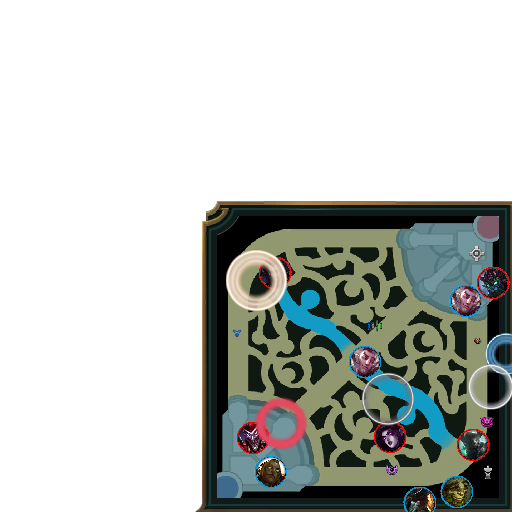
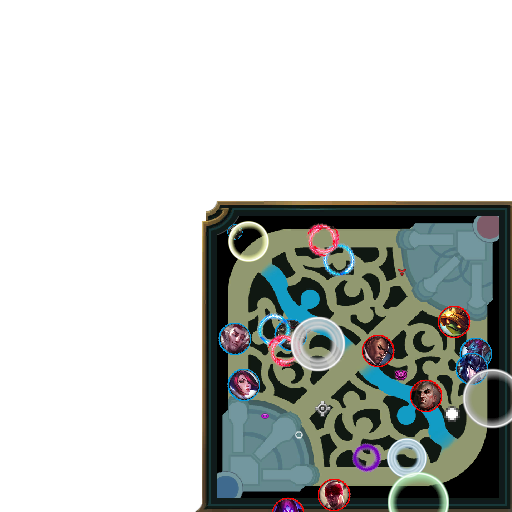
proto_tele_rotate

Changed region(s): [[0.4062, 0.4062, 1.0, 1.0], [0.5938, 0.4375, 0.7188, 0.5625], [0.625, 0.9375, 0.6875, 1.0]]

diff --git a/Data_Creator.py b/Data_Creator.py
@@ -20,6 +20,7 @@ class DD_gatherer:
     def gathering(self, url, local):
         urllib.request.urlretrieve(url,local)
 
+
     def get_character_list(self):
         url = self.latest_url + "game/assets/characters/"
         version = input("typing version of LoL: ")
@@ -58,6 +59,7 @@ class DD_gatherer:
         self.gathering(url, local + "mini_inner.png")
         url = self.latest_url + "game/data/menu/textures/spectatorupdate.png"
         self.gathering(url, local + "mini_outter.png")
+
 
     def get_minimap_noise(self):
         local = self.local + "noise/"
@@ -103,9 +105,11 @@ class DataCreator:
         self.ping_len = ping
         self.DATA = []
 
+
     def stack(self):
         if self.save == "png": self.DATA.append(deepcopy(self.ping))
         elif self.save == "npy": self.DATA.append(np.array(self.ping))
+
 
     def saving(self):
         if self.save == "png":
@@ -134,6 +138,7 @@ class DataCreator:
 
         self.base = minimap
         minimap.save(r"./Data/test_base.png")
+
 
     def hero_creating(self):
         hero_path = "./LOL_image/character/"
@@ -167,6 +172,7 @@ class DataCreator:
         self.hero = minimap
         minimap.save(r"./Data/test_hero.png")
 
+
     def noise_creating(self):
         noise_path = "./LOL_image/noise/"
         self.base_creating()
@@ -192,16 +198,17 @@ class DataCreator:
         self.noise = minimap
         minimap.save(r"./Data/test_noise.png")
 
+
     def ping_creating(self):
         ping_path = "./LOL_image/ping/" 
-        self.hero_creating()
-        minimap = self.hero
-        ping_list = os.listdir(ping_path)
+        ping_tmp = os.listdir(ping_path)
+        teleport_list, ping_list = [], []
 
-        for i in range(len(ping_list)):
-            if ping_list[i] == ".DS_Store":
-                ping_list.pop(i)
-                break
+        for i in range(len(ping_tmp)):
+            if "ring" not in ping_tmp[i]: teleport_list.append(ping_tmp[i])
+            else: ping_list.append(ping_tmp[i])
+
+        minimap = self.teleport_creator(teleport_list)
 
         ping_ran = []
         for i in range(self.ping_len): ping_ran.append(secrets.choice(ping_list))
@@ -221,7 +228,25 @@ class DataCreator:
         self.ping = minimap
         #minimap.show()
         minimap.save(r"./Data/test_ping.png")
-        
+
+
+    def teleport_creator(self, teleport_list):
+        ping_path = "./LOL_image/ping/" 
+        self.hero_creating()
+        minimap = self.hero
+
+        teleport_ran=[]
+        for i in range(self.ping_len): teleport_ran.append(secrets.choice(teleport_list))
+        print(teleport_ran)
+
+        for ping in teleport_ran:
+            width, height, rotate = secrets.randbelow(self.innerwidth), secrets.randbelow(self.innerheight), secrets.randbelow(360)
+            width, height = width + self.Size, height + self.Size
+            p1 = p2 = 34
+            PING = Image.open(ping_path + ping).resize((p1, p2)).rotate(rotate)
+            minimap.paste(PING, (width, height), PING)
+
+        return minimap
 
 
 if __name__ == "__main__":
